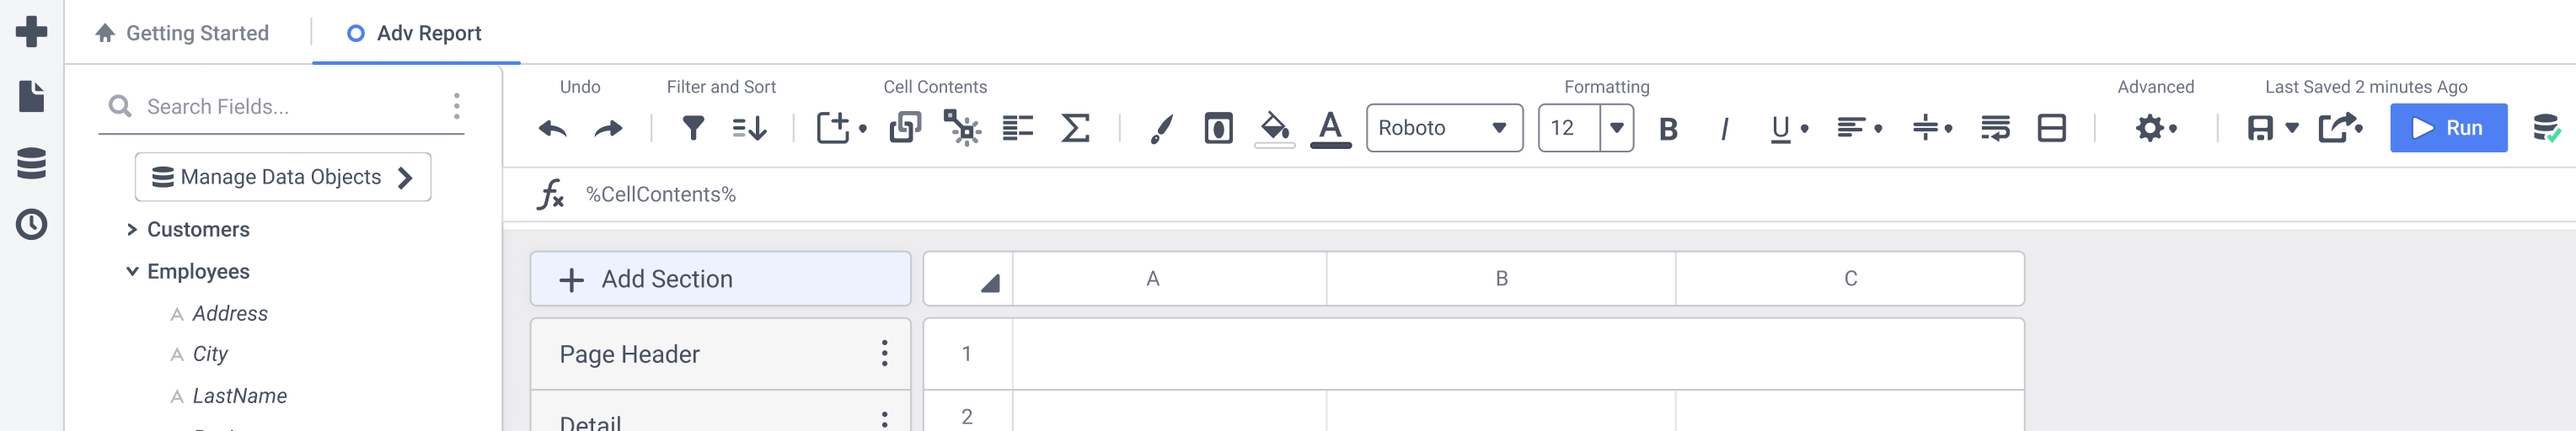
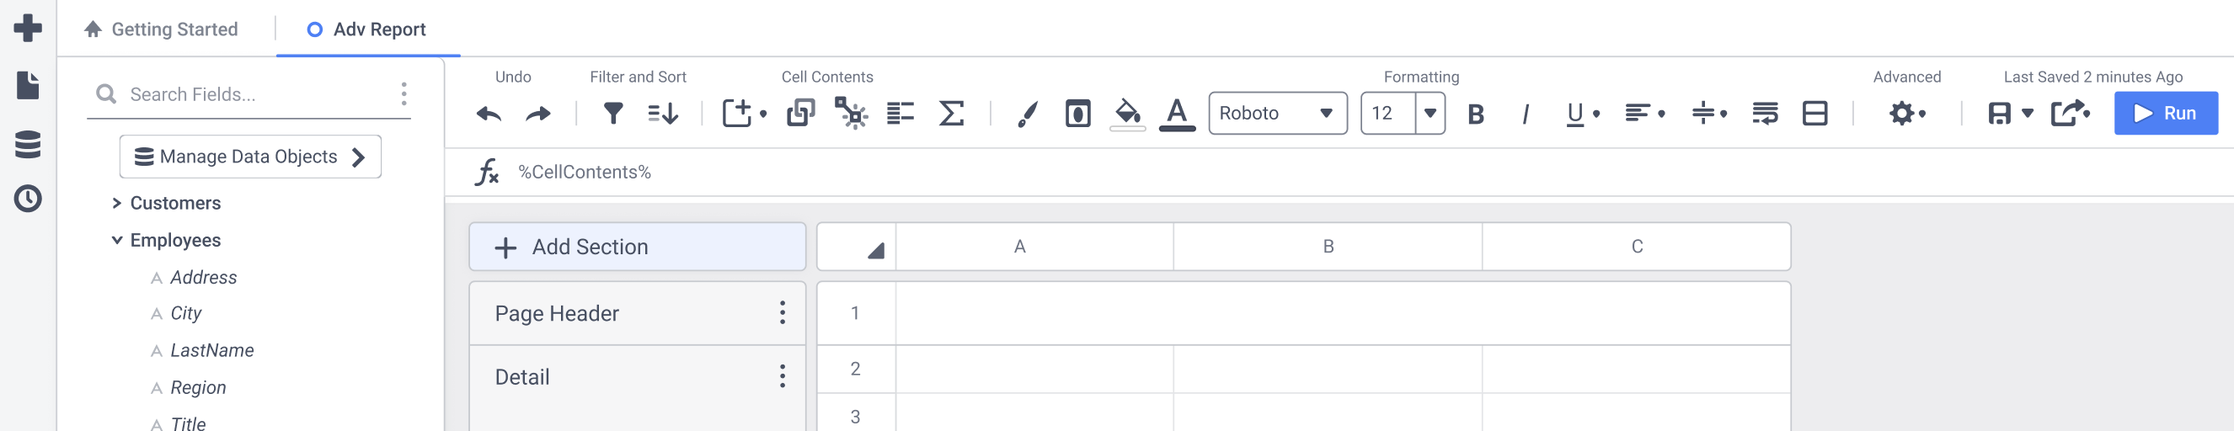
More details and pictures for the AR Case Study

diff --git a/ReportBuilderCaseStudy_Exago.html b/ReportBuilderCaseStudy_Exago.html
@@ -48,7 +48,7 @@
 				<br/>
 				<h3 style="text-align: center;">Exago BI</h3>
 				<br/>
-				<img class="img-center" src="assets/NewAdvancedReportDesigner.png"></img>
+				<img class="img-center" src="assets/NewAdvancedReportBuilder.png"></img>
 				<br/>
 				<p>
 					The goal of this project was to make the sales evaluation process more effective and ultimately secure more deals. The Exago sales team was experiencing a year-long lull in sales. To combat this, the CEO decided to make a sudden and dramatic change to the roadmap. The product team dropped everything to elevate core product offerings, including Exago’s most valuable and best selling report building platform.
@@ -85,10 +85,10 @@
 				<h2>Team and Timeline</h2>
 				<br/>
 				<p>
-					The product team consisted of myself and the VP of Product Management, Alex Agoado. I did the preliminary discovery research, user experience design, interface design, and tested the solution. Alex facilitated the persona discussion, wrote the specification document, and managed ongoing conversations around the project’s scope. We also met weekly with 5 people from the Development and Quality Assurance teams to discuss technical limitations, design for edge cases, and monitor the project’s progress.
+					The product team consisted of myself and the VP of Product Management, Alex Agoado. I did the preliminary discovery research, user experience design, interface design, and tested the solution. Alex facilitated the persona discussion, wrote the specification document, and managed ongoing conversations around the project’s scope. We also met weekly with five people from the Development and Quality Assurance teams to monitor the project's progress, discuss technical limitations, and design for edge cases.
 					<br/>
 					<br/>
-					The report builder redesign had an 8 month timeline. The product team was also working on three other projects - one large and two small projects that required our attention.
+					The report builder redesign had an 8 month timeline. During this time, the product team was also working on three other projects - one large project and two smaller projects.
 				</p>
 			</div>
 			<div class="column-margin"></div>
@@ -115,7 +115,7 @@
 				<p>
 					We kicked off the project by meeting with customer-facing and sales team members to discuss who we were primarily designing for. We asked questions to understand Exago user’s goals, responsibilities, and frustrations. 
 
-					After exploring seven different personalities and job titles, we distilled the conversation down to two personas. We ultimately wanted to focus on those who lined up with the overall business goals of the project, the potential buyers, and account for the product’s existing target audience.
+					After exploring seven different personalities and job titles, we distilled the conversation down to two personas. We ultimately wanted to focus on those who lined up with the overall business goals of the project, the potential buyers, and also account for the product’s existing target audience.
 				</p>
 				<br/>
 				<div class="row">
@@ -131,33 +131,35 @@
 				<h2>Interviews</h2>
 				<br/>
 				<p>
-					I met with Exago’s senior sales engineer, Nick Avossa, to understand why and what was causing people to say no to Exago's report creation tool. During our conversation two unforgiving comments stood out that summarize the first problem well:
+					I met with Exago’s senior sales engineer, Nick Avossa, to understand why and what was causing people to say no to Exago's report creation tool. During our conversation, two unforgiving comments stood out and summarize the first problem well:
 				</p>
 				<br/>
-						<div style="text-align: center;" class="gradient-border-wrap-card">
-							<div class="gradient-border-card">
-								<span style="font-size: 16px; font-style: italic;"><span style="font-weight: 500; font-size: 20px;">“</span> There’s an immediate negative reaction when sales introduces the advanced report designer to prospects. <span style="font-weight: 500; font-size: 20px;">”</span></span>
-								<br/>
-								<br/>
-								<span style="font-size: 14px;">
-								Nick Avossa, Senior Sales Engineer</span>
-								<br/>
-							</div>
-						</div>
+				<br/>
+				<div style="text-align: center;" class="gradient-border-wrap-card">
+					<div class="gradient-border-card">
+						<span style="font-size: 16px; font-style: italic;"><span style="font-weight: 500; font-size: 20px;">“</span> There’s an immediate negative reaction when sales introduces the advanced report designer to prospects. <span style="font-weight: 500; font-size: 20px;">”</span></span>
 						<br/>
 						<br/>
-					<div style="text-align: center;" class="gradient-border-wrap-card">
-						<div class="gradient-border-card">
-							<span style="font-size: 16px; font-style: italic;">
-								<span style="font-weight: 500; font-size: 20px;">“</span> This looks like the product we're trying to leave - if it hadn't been updated in 3 years. <span style="font-weight: 500; font-size: 20px;">”</span>
-							</span>
-							<br/>
-							<br/>
-							<span style="font-size: 14px;">
-							One buyer during a sales call</span>
-							<br/>
-						</div>
+						<span style="font-size: 14px;">
+						Nick Avossa, Senior Sales Engineer</span>
+						<br/>
 					</div>
+				</div>
+				<br/>
+				<br/>
+			<div style="text-align: center;" class="gradient-border-wrap-card">
+				<div class="gradient-border-card">
+					<span style="font-size: 16px; font-style: italic;">
+						<span style="font-weight: 500; font-size: 20px;">“</span> This looks like the product we're trying to leave - if it hadn't been updated in 3 years. <span style="font-weight: 500; font-size: 20px;">”</span>
+					</span>
+					<br/>
+					<br/>
+					<span style="font-size: 14px;">
+					One buyer during a sales call</span>
+					<br/>
+				</div>
+			</div>
+				<br/>
 				<br/>
 				<p>
 					These comments weren’t all that surprising; the reporting tool’s look and feel hadn’t been updated since it’s inception in 2006. However, it was suprising to hear that more than half of lost deals specifically mentioned the outdated interface as one of the reasons they chose a competitor over Exago.
@@ -175,14 +177,14 @@
 				<img class="img-center" src="assets/Buyers Journey.png"></img>
 				<br/>
 				<p>
-					Nick explained a major pitfall when the buyer attempted to use Exago on their own without the sales team to guide them. The learning curve was unnecessarily high and people couldn’t figure out how to build even a simple report. This results in the buyer stuggling so see how they, or anyone else, could get value out of the product. When this happens, the buyers lose all trust that this might be a good solution for them and the Exago salesperson has a very hard time recovering from it.
+					Nick explained a major pitfall when the buyer got ahead of the sales team and tried to use Exago without guidance. The learning curve was unnecessarily high and people couldn’t figure out how to build even a simple report. The sales team had a very hard time recovering from this; it caused the buyer to distrust the salesperson and made them sceptical that they, or anyone else, could get value out of the product.
 				</p>
 				<br/>
 				<br/>
 				<h2>Usability Testing</h2>
 				<br/>
 				<p>
-					After establishing that the usability was very low, I wanted to know where they were stumbling throughout this process, and moreso wanted to see if people could build even a simple report. If a buyer could get that far on their own - they could feel a sense of accomplishment, prove some value of the product, and know that they and their colleagues could in fact learn the tool. To test this, I put together a few rounds usability testing. The sessions highlighted unhelpful, unintuitive workflows and difficulties navigating the interface. These points of friction together greatly impacted the onboarding experience and overall left people feeling frustrated.
+					After establishing that the usability was very low, I wanted to know where they were stumbling throughout this process, and moreso wanted to see if people could build a basic report. If a buyer could get that far on their own - they could feel a sense of accomplishment, prove some value of the product, and know that they and their colleagues could in fact learn the tool. To test this, I put together a few rounds usability testing. The sessions highlighted unhelpful, unintuitive workflows and difficulties navigating the interface. These points of friction together greatly impacted the onboarding experience and overall left people feeling frustrated.
 				</p>
 				<br/>
 				<br/>
@@ -211,21 +213,20 @@
 			<div class="column-margin"></div>
 			<div class="one-column-content">
 				<p>
-					<span class="noteable">Modern and Professional Look and Feel</span>
-					<br/>
-					<br/>
-					The Aesthetic Usability Effect states that users often perceive more aesthetically pleasing design as more usable.
+					<span class="noteable">A Fresh Coat of Paint</span>
 				</p>
 				<br/>
-				<img src="assets/OldARGrid.png" style="width: 100%;" alt="The old report builder interface.">
+				<br/>
+				<img src="assets/OldARGrid.png" style="width: 100%;" alt="Image of ">
 				<br/>
 				<p class="figure">The outdated report builder interface.</p>
 				<br/>
 				<br/>
 				<br/>
-				<img src="assets/NewARGrid.png" style="width: 100%;" alt="The updated report builder interface.">
+				<img src="assets/NewARGrid.png" style="width: 100%;" alt="Image of ">
 				<br/>
-				<p class="figure">The redesigned interface. I improved the look and feel as well as created signifiers for previously hidden, important actions.</p>
+				<p class="figure">The redesigned grid interface. I modernized the look while keeping it clean and professional. I also introduced signifiers for previously hidden, important actions that user's failed to find during usability testing. 
+				</p>
 				<br/>
 				<br/>
 				<br/>
@@ -259,6 +260,7 @@
 				<p>
 					<span class="noteable">Clean and Responsive Report Viewing</span>
 					<br/>
+					<br/>
 					The highest-trafficked page needs to be simple, easy to use, and flexible for all users.
 				</p>
 
@@ -275,29 +277,21 @@
 			<div class="column-margin"></div>
 			<div class="one-column-content">
 				<h2>Three Egregious Points of Friction</h2>
-				<h3>Found from Usability Testing</h3>
 				<br/>
 				<br/>
 				<h2>1. The Forced Wizard Workflow</h2>
 				<br/>
 				<p>
-					When someone clicks the button to create a new report, they are transported here:
+					The application forced people through a set up process before they could start building a report. When someone clicks the button to create a new report, they are transported here:
 				</p>
 				<br/>
 				<img class="img-center" src="assets/ARWizard.png" style="width: 80%; border-radius: 10px; border: 1px solid #C7CACF;">
 				<br/>
 				<p>
-					The application forced people through a wizard set up process before they could start building a report.
-					This was not only an ugly starting point, but one that caught people off guard and ultimately left them extremely underwhelmed or even confused. People expected to start playing with a new shiny reporting toy, but instead they were thrown into an unnatural workflow. For example, the first step in the wizard was to name the report - which implied the user knew what they wanted before they got a chance to explore the tool and its options.
+					This was a bloated, ugly starting point that left people feeling underwhelmed and confused. People expected to start playing with a new shiny reporting toy, but instead they were thrown into an unnatural workflow.
 					<br/>
 					<br/>
-					Additionally, the wizard was bloated and time consuming. Only two of the five steps were required. For all newly created reports, users skipped optional steps in the wizard 99% of the time. Even the sales team would glaze over the "feature" as quickly as possible.
-					<br/>
-					<br/>
-					Finally, once a user exited the wizard they could not get back to it, meaning they had to re-learn how they did everything again from the actual report builder interface.
-					<br/>
-					<br/>
-					We stopped forcing people to save their report first and stripped the five-step wizard down to a single dialog, saving people an estimated 17 seconds every time they build a report.
+					We stripped the five-step wizard down to a single dialog, saving people an estimated 17 seconds every time they build a report.
 				</p>
 				<br/>
 				<img class="img-center" src="assets/ARDialog.png" style="width: 80%;border-radius: 10px; border: 1px solid #C7CACF;">
@@ -323,59 +317,66 @@
 				<br/>
 				<h2>3. The Information Architecture</h2>
 				<br/>
+				<p>
+					I watcched people spend lots of time trying to locate options. They would end up hovering over every single icon before finding what they were looking for.
+				</p>
+				<br/>
 				<div class="row">
 					<div class="two-column-content">
 						<img class="img-center" src="assets/OldExagoIA.png">
-						<br/>
-						<p class="figure">
-							I watcched many people hovering over every single icon in an attempt to find what they were looking for.
-						</p>
 					</div>
-					<br/>
-					<br/>
 					<div class="two-column-content">
 						<img class="img-center" src="assets/OldExagoIAMenu.png">
-						<br/>
-						<p class="figure">
-							The most important options for building reports were hidden amongst many other, less important icons.
-						</p>
 					</div>
 				</div>
+				<p class="figure">The most important options for building reports were hidden under a single icon, amongst many other less important icons.</p>
+				<br/>
+				<br/>
 				<p> 
-					I worked on bringing the options people use for nearly every report to the top level and introduced labels to make the interface easy to scan.
+					I worked on bringing the options people use for nearly every report to the top level and introduced labels to make the toolbar easy to scan.
 				</p>
 				<br/>
+				<img class="img-center" src="assets/PreliminaryIA.png" style="border-radius: 10px; border: 1px solid #C7CACF;"></img>
 				<br/>
-				<h2>First Click Testing</h2>
+				<br/>
+				<h2>First-Click Testing</h2>
 				<br/>
 				<p> 
-					Regardless of the fact that I had no allocated time for research, I was Sensitive to those with years of muscle memory and knew I had to find a way to test the information architecture. My chance came when I was offered the opportunity to present at Exago’s client conference. 
-					<br/>
-					<br/>
-					<br/>
-					<br/>
-					<img class="img-center" src="assets/IATest.png">
-					<br/>
-					During my presentation I displayed an image of my design, where areas that people might click were marked with numbers (including red herrings to account for unexpected answers). I asked, "Where would you first click to ..." questions and had people answer via a Zoom Poll.
-					<br/>
-					<br/>
-					Ironically, I used the report viewer this case study is based on to analyze and share the test results:
+					Regardless of the fact that I had no allocated time for research, I was sensitive to those with years of muscle memory. I knew I had to find a way to test the information architecture - and my chance came when I was offered the opportunity to present at Exago’s client conference. I used my presentation to a facilitate a first-click test over zoom. I displayed an image of the proposed design and asked, "Where would you first click to ..." questions where people answered via a poll.
+				</p> 
+				<br/>
+				<br/>
+				<img class="img-center" src="assets/IATest.png" style="border-radius: 10px; border: 1px solid #C7CACF;">
+				<br/>
+				<p class="figure">
+					I displayed this image during the presentation, where areas that people might click were marked with numbers (including red herrings to account for unexpected answers).
+				</p>
+				<br/>
+				<br/> 
+				<p>
+					Ironically, I used the report designer to analyze and share the test results:
 				</p>
 				<br/>
 				<img class="img-center" src="assets/FirstClickTestSummary.png"></img>
 				<br/>
 				<br/>
 				<p>
-					This was an exciting moment for me, I successfully received over 20 responses with a total time investment of three hours - including the time it took to craft the test. On top of that, my presentation was rated highest of 8 speakers based on a post-conference survey.
+					This was an exciting moment for me, I successfully received over twenty responses with a total time investment of three hours - including the time it took to craft the test. On top of that, my presentation was rated the highest of eight speakers based on a post-conference survey.
 				</p>
 				<br/>
 				<br/>
 				<p>
-					Ultimately, this was final design for the information architecture.
+					Ultimately, this was final design for the information architecture:
 					<br/>
 					<br/>
 					<img class="img-center" src="assets/FinalIA.png" style="border-radius: 10px; border: 1px solid #C7CACF;"></img>
 				</p>
+				<br/>
+				<br/>
+				<p>
+					After redesigning the grid interface, information architecture, and core workflows, the final product was much improved from the original.
+				</p>
+				<img class="img-center" src="assets/NewAdvancedReportBuilder.png"></img>
 			</div>
 			<div class="column-margin"></div>
 		</div>
@@ -386,7 +387,7 @@
 		<div class="row">
 			<div class="column-margin"></div>
 			<div class="one-column-content">
-				<img src="assets/Impact.png" style="max-width: 495px; display: block; margin-left: auto; margin-right: auto; width: 45%;" alt="Impact">
+				<img class="img-center" src="assets/Impact.png" style="max-width: 495px; width: 45%;" alt="Impact">
 			</div>
 			<div class="column-margin"></div>
 		</div>
@@ -400,25 +401,48 @@
 				<h2>Impact</h2>
 				<br/>
 				<p>
-					The reporting tool serves as the primary way Exago provides value to customers, however, the learning curve was unnecessarily high and intimidated new users as well as potential buyers. This project focused on improving the look and feel, learnability, and efficiency of the product. 
+					The goal of this project was to make the sales evaluation process more effective and ultimately secure more deals.
 					<br/>
 					<br/>
-					Exago's current application is not set up to collect usage metrics like the number of errors hit, features used, and time in the tool. Despite this, we observed some changes that indicated a successful project.
+					<!-- Exago's current application is not set up to collect usage metrics like the number of errors hit, features used, and time in the tool. Despite this, we observed some changes that indicated a successful project. -->
+					Looking at sales data, we see that 2018 and 2019 were Exago's best years for gaining new clients. In 2020 the sales stagnated and year ended with worse numbers than 2017.
 					<br/>
 					<br/>
-					The prior year's release forced clients to go through a painful upgrade process and many clients opted not to upgrade. After they learned about the release including the changes described here, more clients started the upgrade process.
+					<img class="img-center" style="border-radius: 10px; border: 1px solid #C7CACF;" src="assets/NewSalesAndMaintenanceRevenueByYear.png"></img>
 					<br/>
 					<br/>
-					By removing the wizard and streamlining the workflow that contained an error state, we have saved users an estimated thirty seconds every time they build a report.
+					By the middle of Q3 in 2021, Exago was acquired and effectively removed from the market. Therefore, we cannot know what potential gains were for the fiscal year of 2021, but we can look at the first two quarters. We see that Q1 and Q2 had better results than 2020 and is comparable to Exago's best years, 2018 and 2019.   
 					<br/>
 					<br/>
-					In addition to the project's successes, the product team also had some beneficial outcomes.
+					<img class="img-center" style="border-radius: 10px; border: 1px solid #C7CACF;" src="assets/NewSalesAndMaintenanceRevenueByQuarter.png"></img>
 					<br/>
 					<br/>
-					Additionally, we agreed that kicking off the project with user stories was insightful and helped the team become more user-focused. Since then, we have created user stories for two other projects which have become essential for keeping track of important use cases, guiding design meetings, and facilitating conversations with customer-facing teams and clients.
+					We effectively got out of the 2020 rut, however, the data is not consistent enough to quantify the project's impact. We also have to consider how outside factors affected these numbers. Early on in 2021 there was a lot of turnover in the sales department, and the team lost a lot of product knowledge. Additionally, we were also in the midst of the COVID-19 pandemic, which tightened budgets across many industries.
+					<br/>
+					<br/>
+					Turning to the impact on existing customers, we saw a lot of interest. 
+					<br/>
+					<br/>
+				</p>
+					<div style="text-align: center;" class="gradient-border-wrap-card">
+						<div class="gradient-border-card">
+							<span style="font-size: 16px; font-style: italic;">14 of 80 clients upgraded to the new release,</span>
+							<br/>
+							<br/>
+							<span style="font-size: 14px;">
+							compared to 4 of 80 clients for the last release.</span>
+							<br/>
+						</div>
+					</div>
+				<p>
+					<br/>
+					<br/>
+					Because Exago is so heavily integrated into our clients systems, the upgrade process can take three months to a year. On top of that, the prior year's release forced clients to go through a painful process and many clients opted not to upgrade - this release clearly motivated people to get through that painful process despite the time commitment.
 				</p>
 				<br/>
-				<br/>
+				<p>
+					This project was long awaited and in my opinion a great success, thanks for reading!
+				</p>
 				<br/>
 				<br/>
 				<a href="work.html"  alt="Click to read about my experiences through project case studies." class="button">View All Projects</a>
